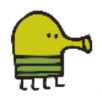
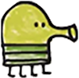
The images for the player adn the platforms haves been edited and finalized in photoshop, so the game is looking much more clean

diff --git a/main.py b/main.py
@@ -21,13 +21,13 @@ from pygame.locals import (
     QUIT,
 )
 
-WIDTH = 400 # Screen width constant
+WIDTH = 490 # Screen width constant
 HEIGHT = int(WIDTH*1.5) # Screen height constant
 
 # initialize the framerate object and clock so that we can standardize framerate
 clock = pg.time.Clock()
-FRAME_RATE = 120
-DT = (1/FRAME_RATE)*1200
+FRAME_RATE = 60
+DT = (1200/FRAME_RATE)
 
 # Set up the drawing window
 screen = pg.display.set_mode([WIDTH, HEIGHT])
@@ -40,10 +40,10 @@ horizontal_lines = [i for i in range(HEIGHT) if i % 20 == 0]
 # initialize objects
 player = dl.Doodler(WIDTH, HEIGHT)
 platforms = []
-platforms.append(plat.Platform((WIDTH//4,int(HEIGHT*0.8))))
+platforms.append(plat.Platform((WIDTH*0.12,HEIGHT*0.8)))
 
 # set gravity strength
-gravity = 0.000012
+gravity = 0.0000033
 
 score = 0
 
@@ -71,12 +71,12 @@ while running:
         # if the player collides with a platform, it should bounce upwards
         if platform.collided_width(player):
             print("The player collided with a platform")
-            player.vel = (player.vel[0], -.1*DT)
+            player.vel = (player.vel[0], -.031*DT)
             player.acc = (player.acc[0], 0)
             player.pos = player.prev_pos
 
     # make the player be affected by gravity
-    player.acc = (player.acc[0], player.acc[1] + gravity*DT)
+    # player.acc = (player.acc[0], player.acc[1] + gravity*DT)
 
     player.move(DT)
 

diff --git a/plat.py b/plat.py
@@ -5,14 +5,13 @@
 # functionality of the DoodleJump game using pygame
 
 import pygame as pg
-import random
-
-
+from pygame.locals import RLEACCEL
 
 class Platform():
     def __init__(self, pos):
         self.pos = pos
         self.img = pg.image.load("platform.png").convert()
+        self.img.set_colorkey((255, 255, 255), RLEACCEL) # get rid of the background
         # self.img = pg.Surface((20, 10))
         self.height = self.img.get_height()
         self.width = self.img.get_width()

diff --git a/Doodler.py b/Doodler.py
@@ -4,10 +4,12 @@
 # File description (Doodler.py): creates a 
 # class for the player of the game
 import pygame as pg
+from pygame.locals import RLEACCEL
 
 class Doodler:
     def __init__(self, WIDTH, HEIGHT):
         self.img = pg.image.load("doodler.png").convert()
+        self.img.set_colorkey((255, 255, 255), RLEACCEL) # get rid of the background
         self.rect = self.img.get_rect()
         self.prev_pos = (WIDTH / 2, HEIGHT - 300)
         self.pos = (WIDTH / 2, HEIGHT - 300)
